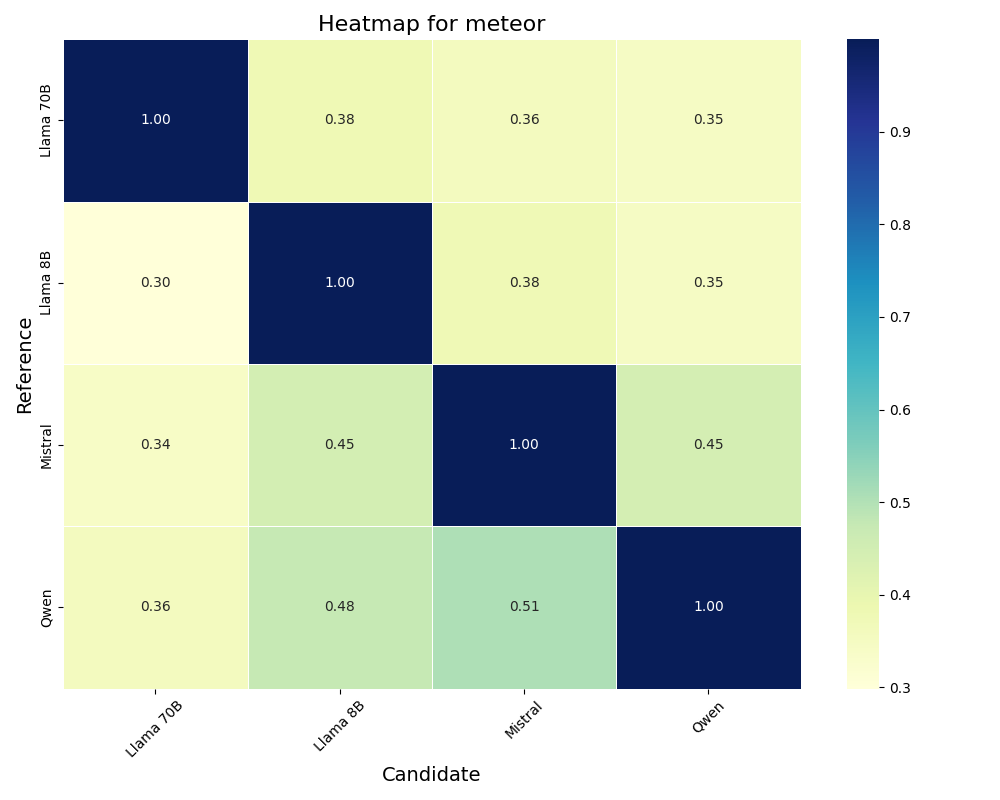
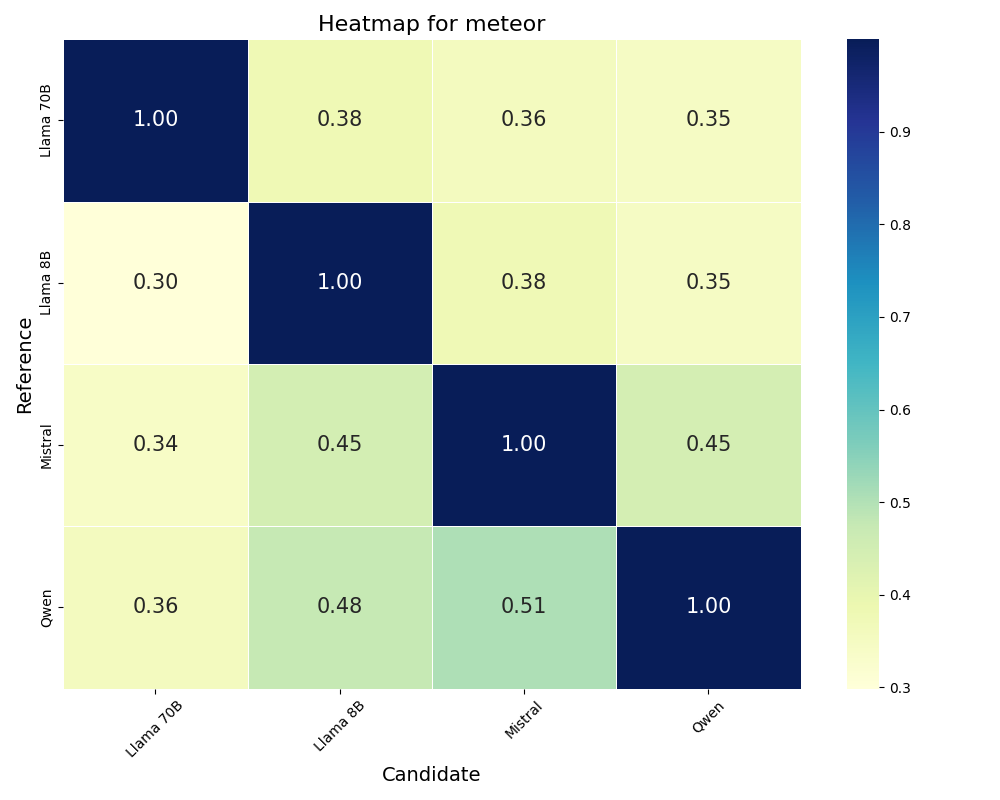
updated text size

diff --git a/quantitative_eval_data_extraction.py b/quantitative_eval_data_extraction.py
@@ -30,7 +30,7 @@ def generate_table(file_path, start_i):
 
         # Plot the heatmap
         plt.figure(figsize=(10, 8))
-        sns.heatmap(matrix, annot=True, cmap="YlGnBu", fmt=".2f", linewidths=0.5)
+        sns.heatmap(matrix, annot=True, annot_kws={"size": 15}, cmap="YlGnBu", fmt=".2f", linewidths=0.5)
         plt.xticks(rotation=45)
         plt.title(f"Heatmap for {metric}", fontsize=16)
         plt.xlabel("Candidate", fontsize=14)
